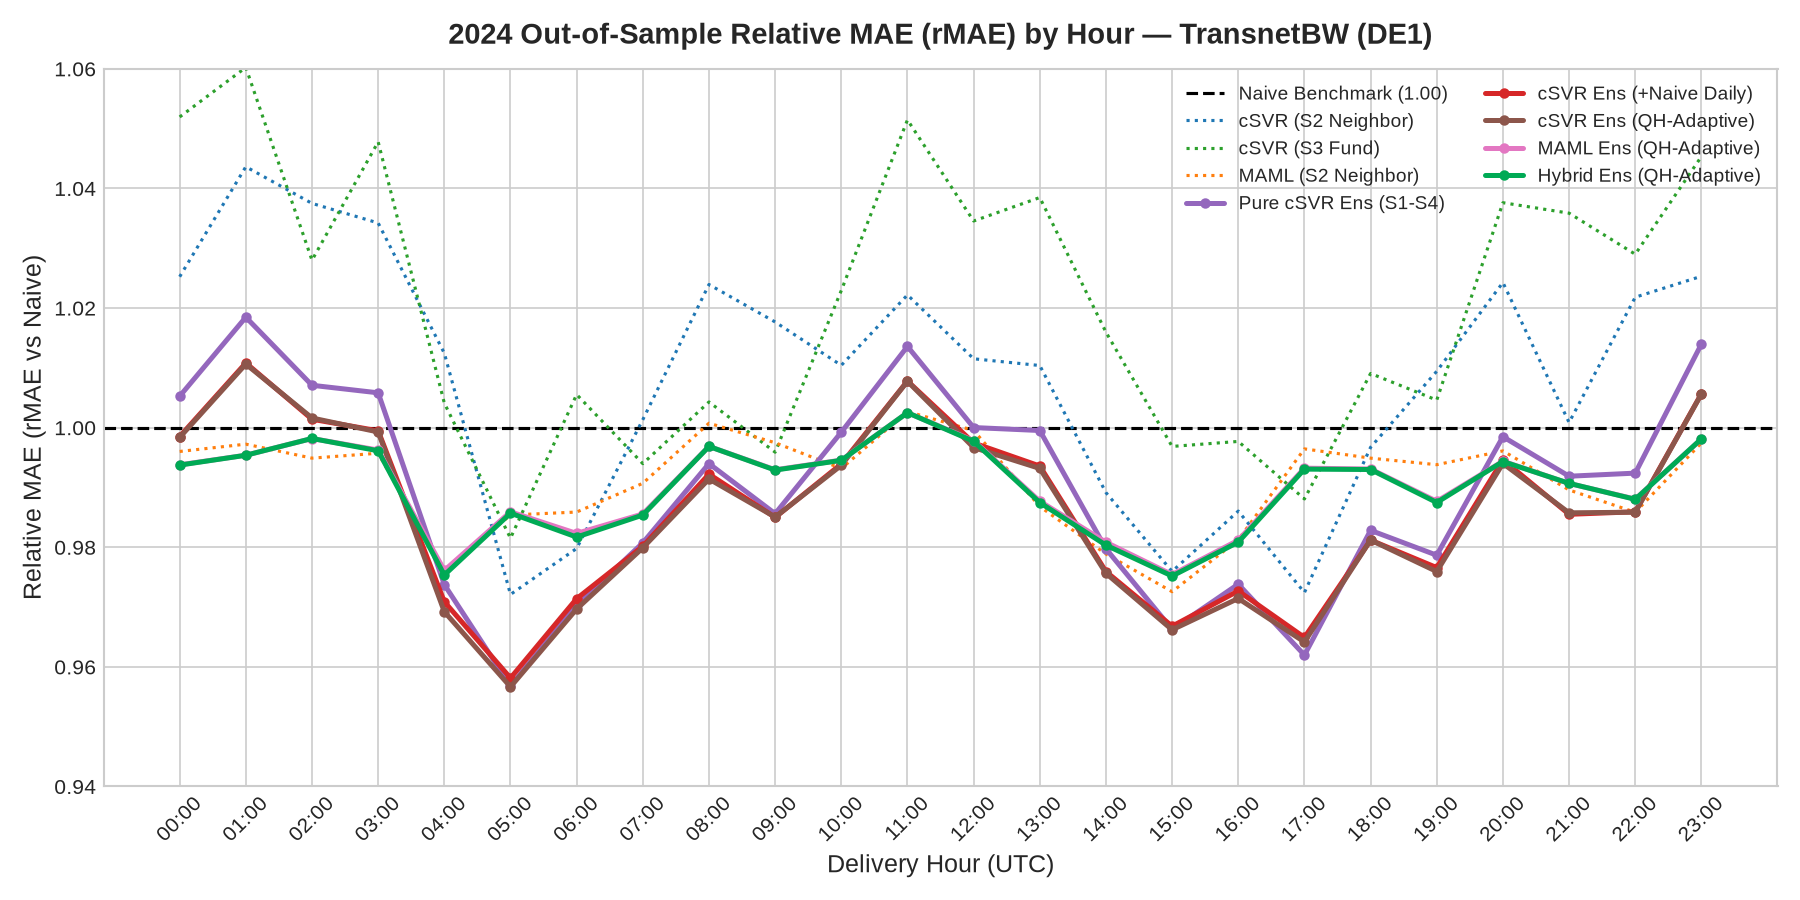
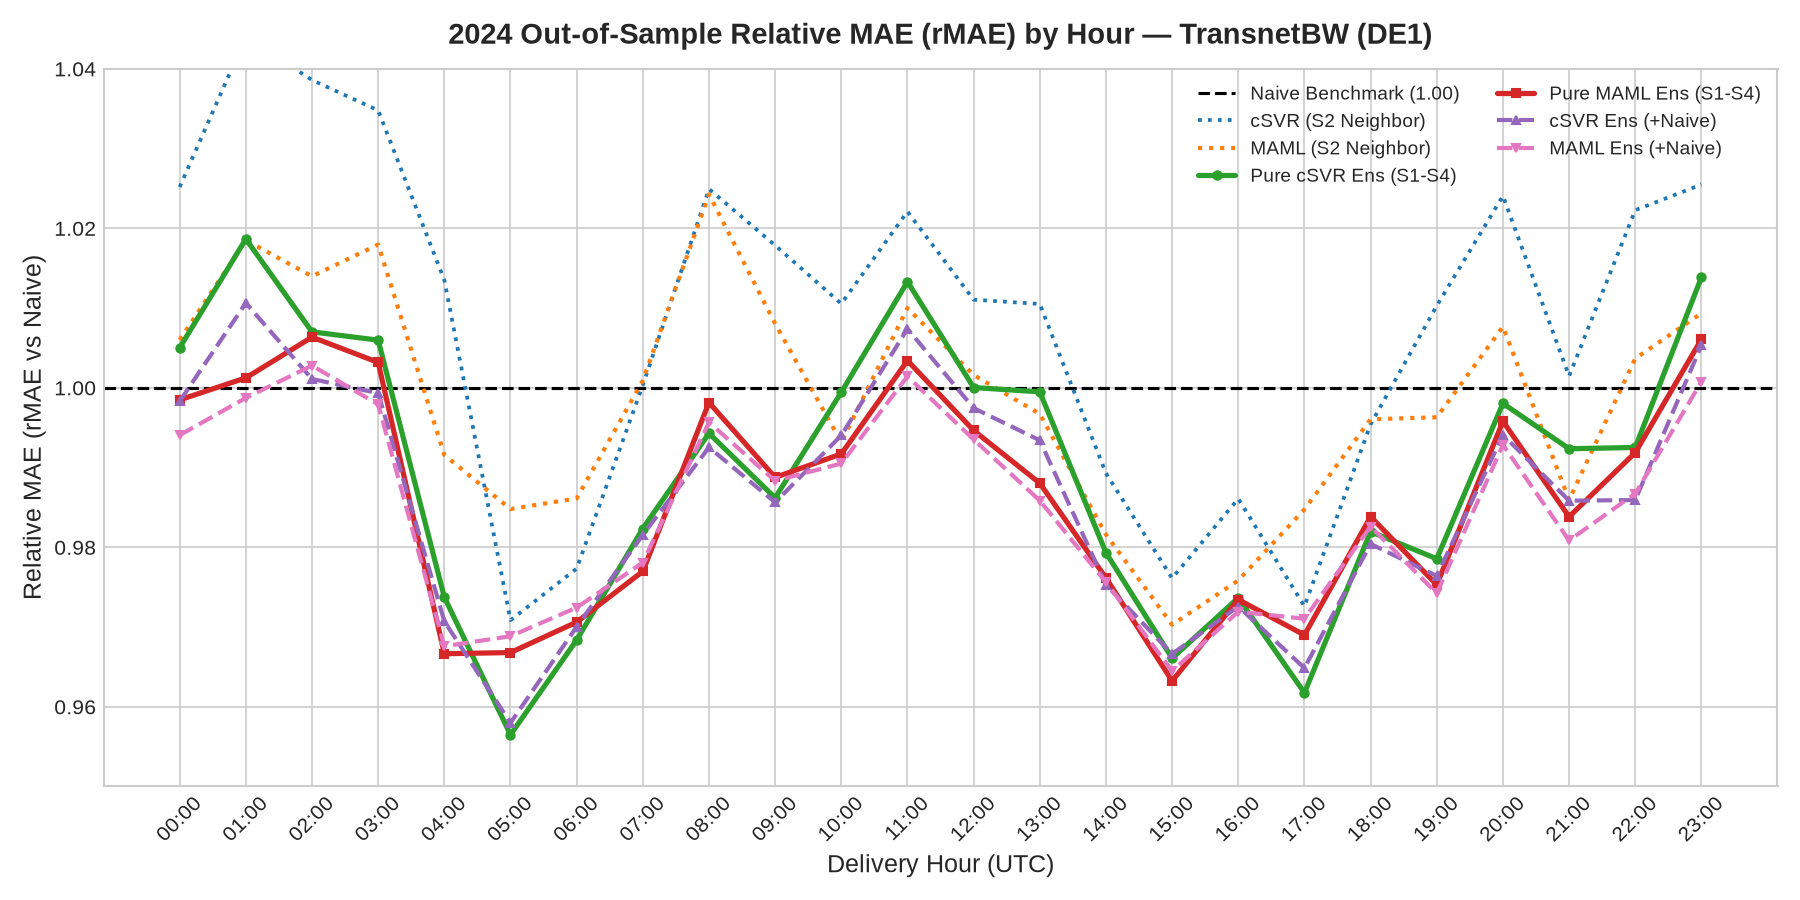
Update Evaluation heatmaps and hour plots to final 2024 model results

diff --git a/Evaluation/run_full4sets_evaluation.py b/Evaluation/run_full4sets_evaluation.py
@@ -54,22 +54,21 @@ def generate_zone_plots(zone: str):
     y_true = data["y_true"]
     bm = data["benchmark"]
 
+    # Strictly MAML-NN vs cSVR (Rule 5.2: No cross-architecture hybrids)
     models_to_eval = [
-        ("Naive", bm_2d),
-        ("cSVR (S1 Macro)", data["pred_csvr_2d"]),
-        ("cSVR (S2 Neighbor)", data["pred_csvr_s2_2d"]),
-        ("cSVR (S3 Fund)", data["pred_csvr_s3_2d"]),
-        ("cSVR (S4 Balance)", data["pred_csvr_s4_2d"]),
+        ("Naive Benchmark", bm_2d),
+        ("cSVR (S1 Macro)", data["pred_csvr_s1_2d"] if "pred_csvr_s1_2d" in data else data["pred_csvr_2d"]),
         ("MAML (S1 Macro)", data["pred_maml_s1_2d"]),
+        ("cSVR (S2 Neighbor)", data["pred_csvr_s2_2d"]),
         ("MAML (S2 Neighbor)", data["pred_maml_s2_2d"]),
-        ("MAML (S3 Fund)", data["pred_maml_s3_2d"]),
-        ("MAML (S4 Balance)", data["pred_maml_s4_2d"]),
+        ("cSVR (S3 Fundamentals)", data["pred_csvr_s3_2d"]),
+        ("MAML (S3 Fundamentals)", data["pred_maml_s3_2d"]),
+        ("cSVR (S4 Balances)", data["pred_csvr_s4_2d"]),
+        ("MAML (S4 Balances)", data["pred_maml_s4_2d"]),
         ("Pure cSVR Ens (S1-S4)", data["pred_csvr_ens_pure_2d"]),
-        ("cSVR Ens (+Naive Daily)", data["pred_csvr_ens_wn_2d"]),
-        ("cSVR Ens (QH-Adaptive)", data["pred_csvr_ens_adapt_2d"]) if "pred_csvr_ens_adapt_2d" in data else ("cSVR Ens (+Naive)", data["pred_csvr_ens_wn_2d"]),
         ("Pure MAML Ens (S1-S4)", data["pred_maml_ens_pure_2d"]),
-        ("MAML Ens (QH-Adaptive)", data["pred_maml_ens_wn_2d"]),
-        ("Hybrid Ens (QH-Adaptive)", data["pred_ens_2d"]),
+        ("cSVR Ens (+Naive)", data["pred_csvr_ens_wn_2d"]),
+        ("MAML Ens (+Naive)", data["pred_maml_ens_wn_2d"]),
     ]
 
     # Compute hourly rMAE
@@ -88,28 +87,24 @@ def generate_zone_plots(zone: str):
 
     # Color palette
     colors = {
-        "cSVR (S2 Neighbor)": "#1f77b4",
-        "cSVR (S3 Fund)": "#2ca02c",
-        "MAML (S2 Neighbor)": "#ff7f0e",
-        "Pure cSVR Ens (S1-S4)": "#9467bd",
-        "cSVR Ens (+Naive Daily)": "#d62728",
-        "cSVR Ens (QH-Adaptive)": "#8c564b",
-        "MAML Ens (QH-Adaptive)": "#e377c2",
-        "Hybrid Ens (QH-Adaptive)": "#00aa55",
+        "cSVR (S2 Neighbor)": ("#1f77b4", ":", 1.8, None),
+        "MAML (S2 Neighbor)": ("#ff7f0e", ":", 2.0, None),
+        "Pure cSVR Ens (S1-S4)": ("#2ca02c", "-", 2.5, "o"),
+        "Pure MAML Ens (S1-S4)": ("#d62728", "-", 2.5, "s"),
+        "cSVR Ens (+Naive)": ("#9467bd", "--", 2.0, "^"),
+        "MAML Ens (+Naive)": ("#e377c2", "--", 2.0, "v"),
     }
 
-    for name, col in colors.items():
+    for name, (col, ls, lw, marker) in colors.items():
         if name in hourly_rmae:
-            ls = "-" if "Ens" in name or "Hybrid" in name else ":"
-            lw = 2.4 if "Ens" in name or "Hybrid" in name else 1.5
-            ax.plot(hours, hourly_rmae[name], label=name, color=col, linestyle=ls, linewidth=lw, marker="o" if "Ens" in name else None, markersize=4)
+            ax.plot(hours, hourly_rmae[name], label=name, color=col, linestyle=ls, linewidth=lw, marker=marker, markersize=4)
 
     ax.set_title(f"2024 Out-of-Sample Relative MAE (rMAE) by Hour — {ZONE_NAMES[zone]}", fontsize=14, fontweight="bold", pad=12)
     ax.set_xlabel("Delivery Hour (UTC)", fontsize=12)
     ax.set_ylabel("Relative MAE (rMAE vs Naive)", fontsize=12)
     ax.set_xticks(hours)
     ax.set_xticklabels([f"{h:02d}:00" for h in hours], rotation=45)
-    ax.set_ylim(0.94, 1.06)
+    ax.set_ylim(0.95, 1.04)
     ax.legend(loc="upper right", framealpha=0.9, fontsize=9, ncol=2)
     plt.tight_layout()
     plt.savefig(os.path.join(OUTPUT_DIR, f"full4sets_by_hour_{zone}.png"))
@@ -119,14 +114,14 @@ def generate_zone_plots(zone: str):
     heatmap_matrix = np.array([hourly_rmae[m[0]] for m in models_to_eval[1:]])
     fig, ax = plt.subplots(figsize=(14, 8), dpi=150)
     cmap = plt.cm.RdYlGn_r
-    norm = mcolors.TwoSlopeNorm(vmin=0.94, vcenter=1.00, vmax=1.06)
+    norm = mcolors.TwoSlopeNorm(vmin=0.96, vcenter=1.00, vmax=1.04)
     im = ax.imshow(heatmap_matrix, aspect="auto", cmap=cmap, norm=norm)
 
     ax.set_xticks(np.arange(24))
     ax.set_xticklabels([f"{h:02d}:00" for h in hours], rotation=45, fontsize=9)
     ax.set_yticks(np.arange(len(models_to_eval) - 1))
     ax.set_yticklabels([m[0] for m in models_to_eval[1:]], fontsize=10)
-    ax.set_title(f"rMAE Heatmap Across Delivery Hours (UTC) — {ZONE_NAMES[zone]} (2024)", fontsize=13, fontweight="bold", pad=12)
+    ax.set_title(f"rMAE Heatmap Across Delivery Hours (UTC) — {ZONE_NAMES[zone]} (2024 Full Year)", fontsize=13, fontweight="bold", pad=12)
 
     # Colorbar
     cbar = plt.colorbar(im, ax=ax, fraction=0.03, pad=0.02)
@@ -135,7 +130,7 @@ def generate_zone_plots(zone: str):
     plt.savefig(os.path.join(OUTPUT_DIR, f"full4sets_heatmap_{zone}.png"))
     plt.close()
 
-    print(f"Generated plots for {zone} -> {OUTPUT_DIR}")
+    print(f"Generated updated plots for {zone} -> {OUTPUT_DIR}")
 
 def main():
     for z in ZONES:
